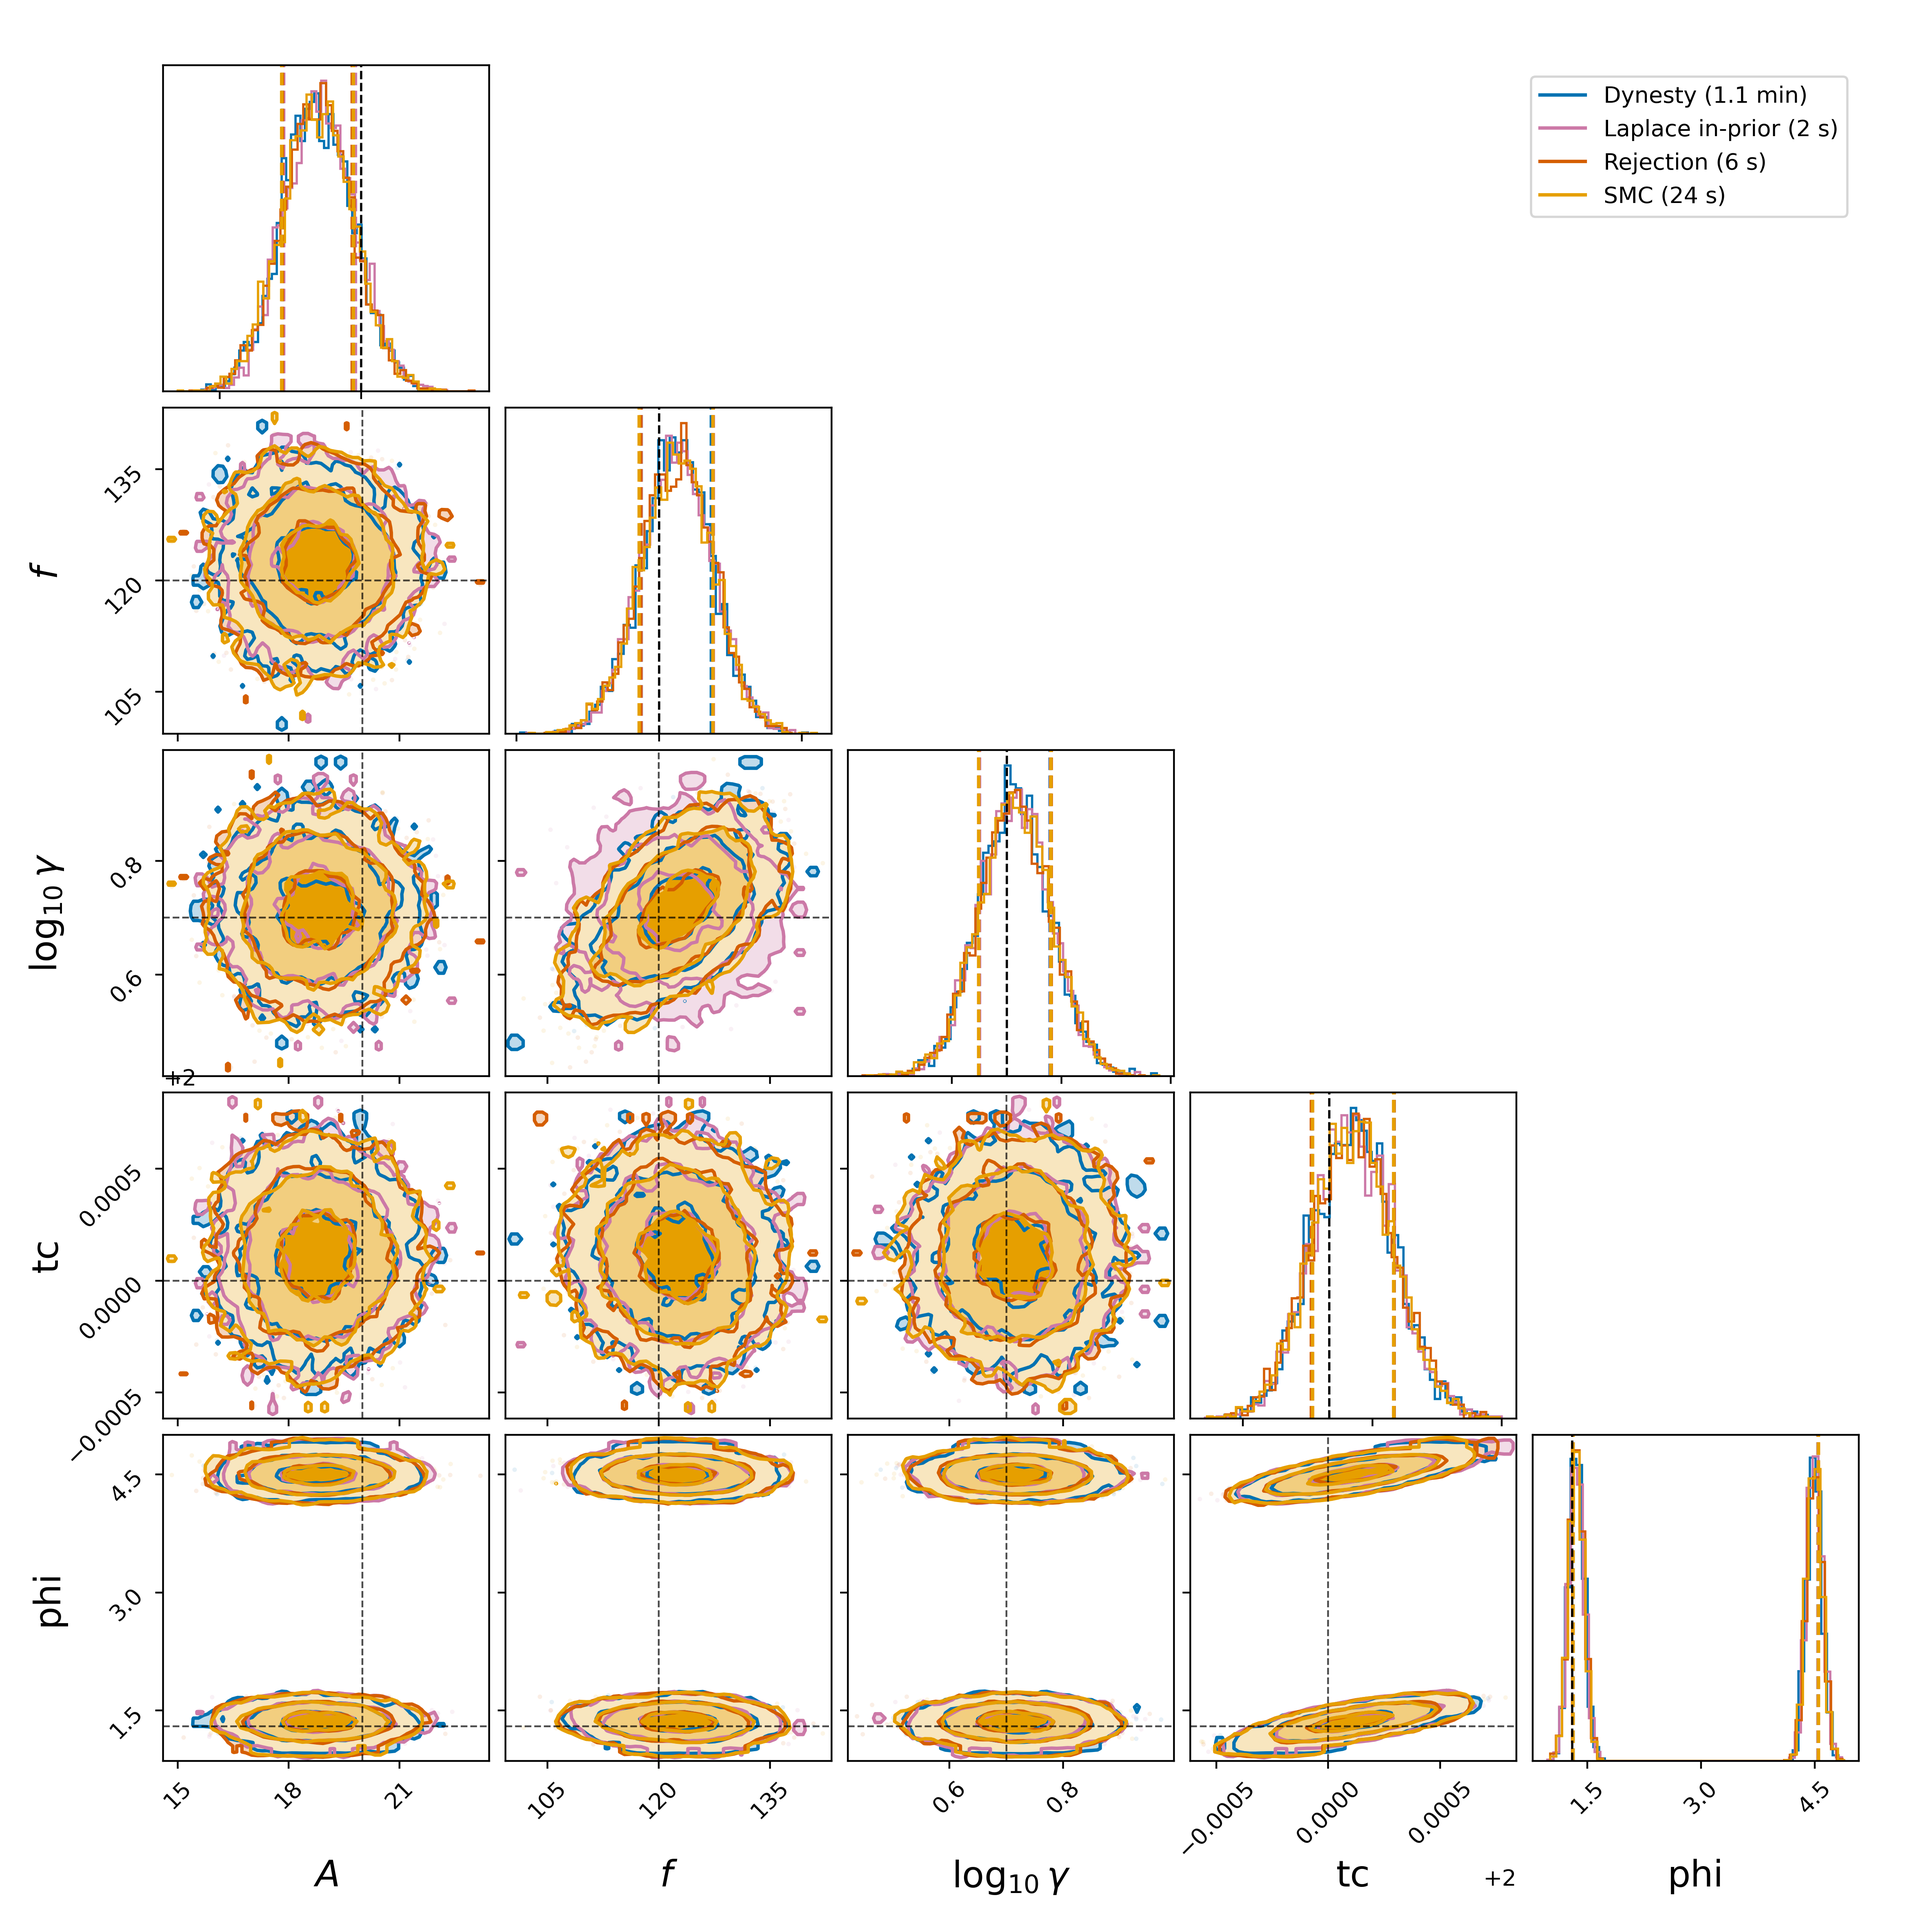
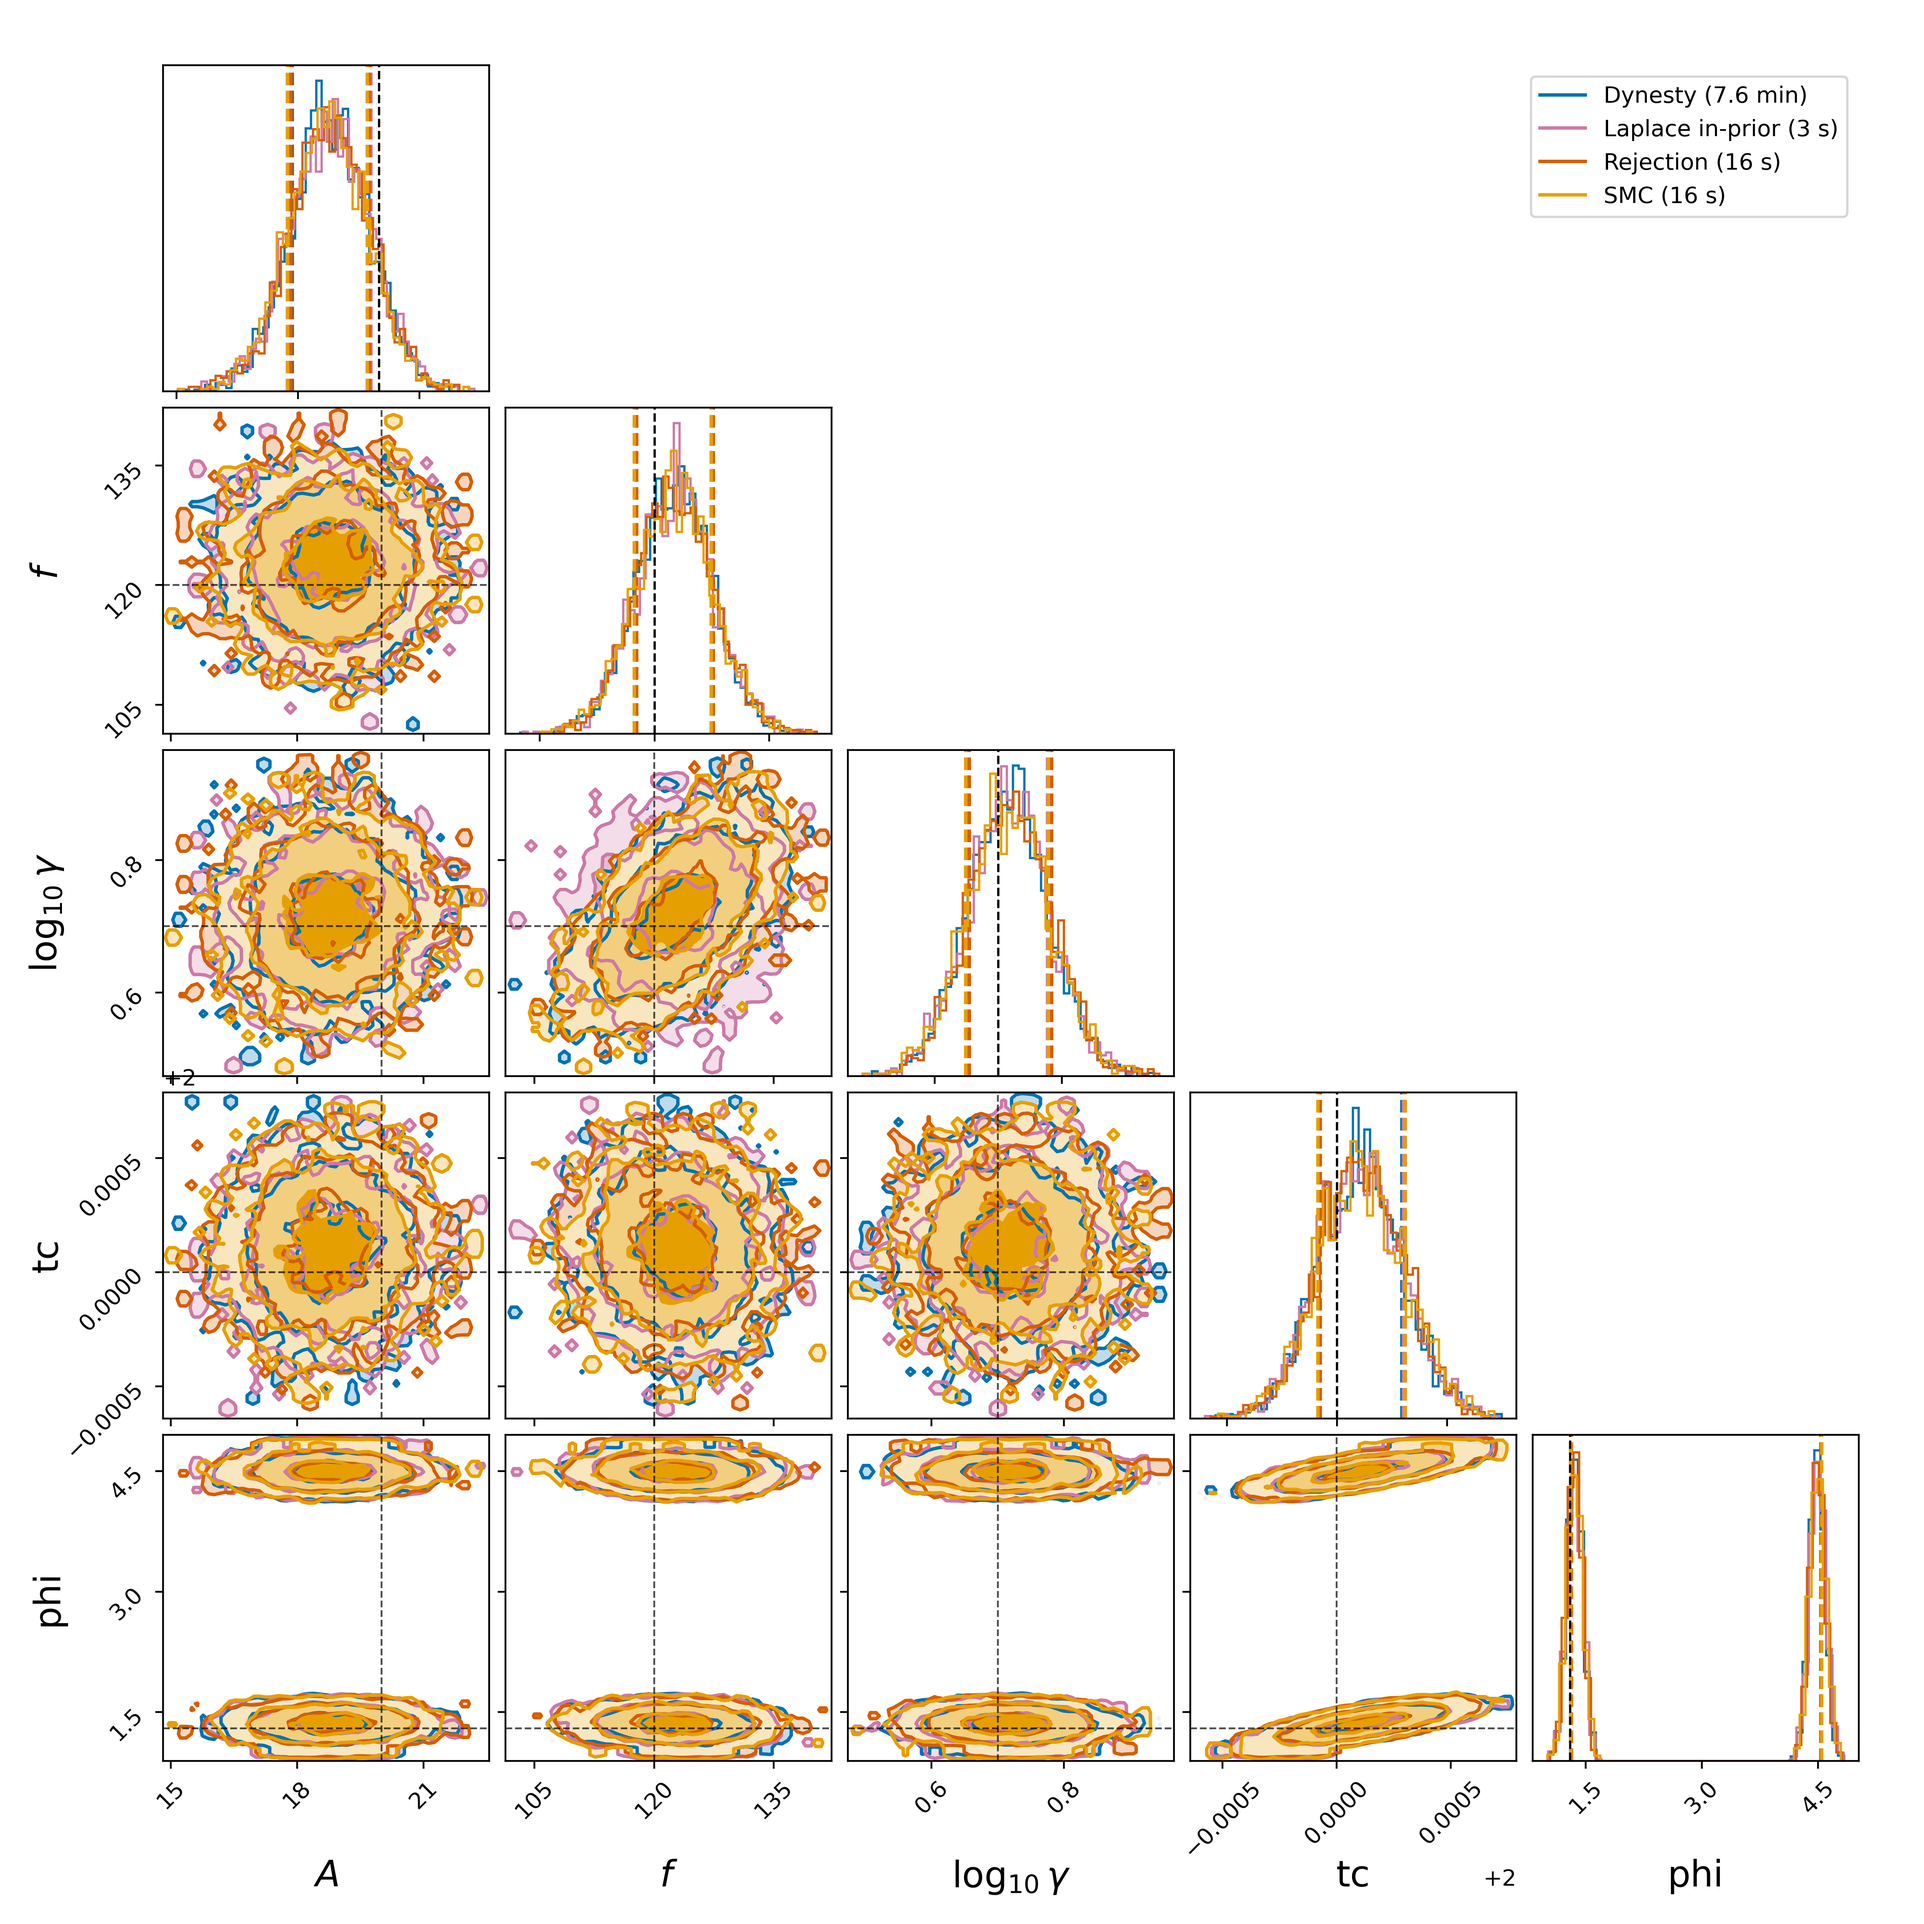
Clean up and run of the Antiglitch example

diff --git a/examples/AntiGlitch/run.py b/examples/AntiGlitch/run.py
@@ -33,8 +33,8 @@ bilby.core.utils.random.seed(DATA_SEED)
 outdir = "outdir_antiglitch_example"
 base_label = "antiglitch"
 
-N_STEPS = 100
-N_SAMPLES = 5000
+N_STEPS = 5
+N_SAMPLES = 2000
 
 
 def anti_glitch_model(frequency, psd, tstart, A, f, phi, tc, log_gamma):
@@ -322,8 +322,8 @@ def setup():
         clean=True,
         resume=False,
         sampler="laplace",
-        target_nsamples=5000,
-        npool=16,
+        target_nsamples=N_SAMPLES,
+        npool=1,
     )
 
     return _common, _common_laplace
@@ -378,7 +378,7 @@ def run_dynesty(_common):
         sample="acceptance-walk",
         naccept=60,
         maxmcmc=5000,
-        npool=16,
+        npool=1,
         clean=True,
         resume=False,
     )

diff --git a/examples/AntiGlitch/README.md b/examples/AntiGlitch/README.md
@@ -15,12 +15,12 @@ Individual samplers: `make laplace`, `make rejection`, `make smc`, `make dynesty
 
 `JSD` is the mean over sampled parameters of the Jensen-Shannon divergence of each 1-D marginal from `antiglitch_dynesty`, in millibits, evaluated at a fixed 2000 samples per side (the same count in every example, so values are comparable across them). The reference is not ground truth -- a small value means agreement with dynesty, not correctness.
 
-**Noise floor: at most 1.30 mbits.** That is `antiglitch_dynesty` against itself, two disjoint 1619-sample draws from the one posterior. Two finite samples of the *same* distribution do not score zero, so anything at or below this level is consistent with perfect agreement, and differences among such values are not measurements. The split needs twice its size, and this reference has too few samples for 2000; the floor falls with N, so the true figure at N=2000 is lower than the one quoted. It is one split averaged over the sampled parameters, so read it as an order of magnitude, not a threshold.
+**Noise floor: at most 1.39 mbits.** That is `antiglitch_dynesty` against itself, two disjoint 1563-sample draws from the one posterior. Two finite samples of the *same* distribution do not score zero, so anything at or below this level is consistent with perfect agreement, and differences among such values are not measurements. The split needs twice its size, and this reference has too few samples for 2000; the floor falls with N, so the true figure at N=2000 is lower than the one quoted. It is one split averaged over the sampled parameters, so read it as an order of magnitude, not a threshold.
 
 | method | log Z | ± | n_like | efficiency | time | JSD (mbits) | worst parameter |
 |---|---|---|---|---|---|---|---|
-| `antiglitch_dynesty` | -1989.62 | 0.12 | 1638270 | 0.3% | 65.3s | — | — |
-| `antiglitch_inprior` | nan | nan | 5000 | 100.0% | 2.4s | 1.79 | A (2.56) |
-| `antiglitch_rejection` | -1989.59 | 0.00 | 180000 | 2.9% | 6.4s | 1.56 | f (1.89) |
-| `antiglitch_smc` | -1989.58 | 0.01 | 520000 | 1.0% | 23.9s | 1.99 | f (3.24) |
+| `antiglitch_dynesty` | -1989.68 | 0.12 | 1634274 | 0.3% | 458.7s | — | — |
+| `antiglitch_inprior` | nan | nan | 2000 | 100.0% | 2.7s | 1.54 | A (2.02) |
+| `antiglitch_rejection` | -1989.59 | 0.00 | 50000 | 4.5% | 16.0s | 2.28 | f (2.84) |
+| `antiglitch_smc` | -1989.55 | 0.02 | 18000 | 11.1% | 16.3s | 1.58 | A (1.87) |
 
